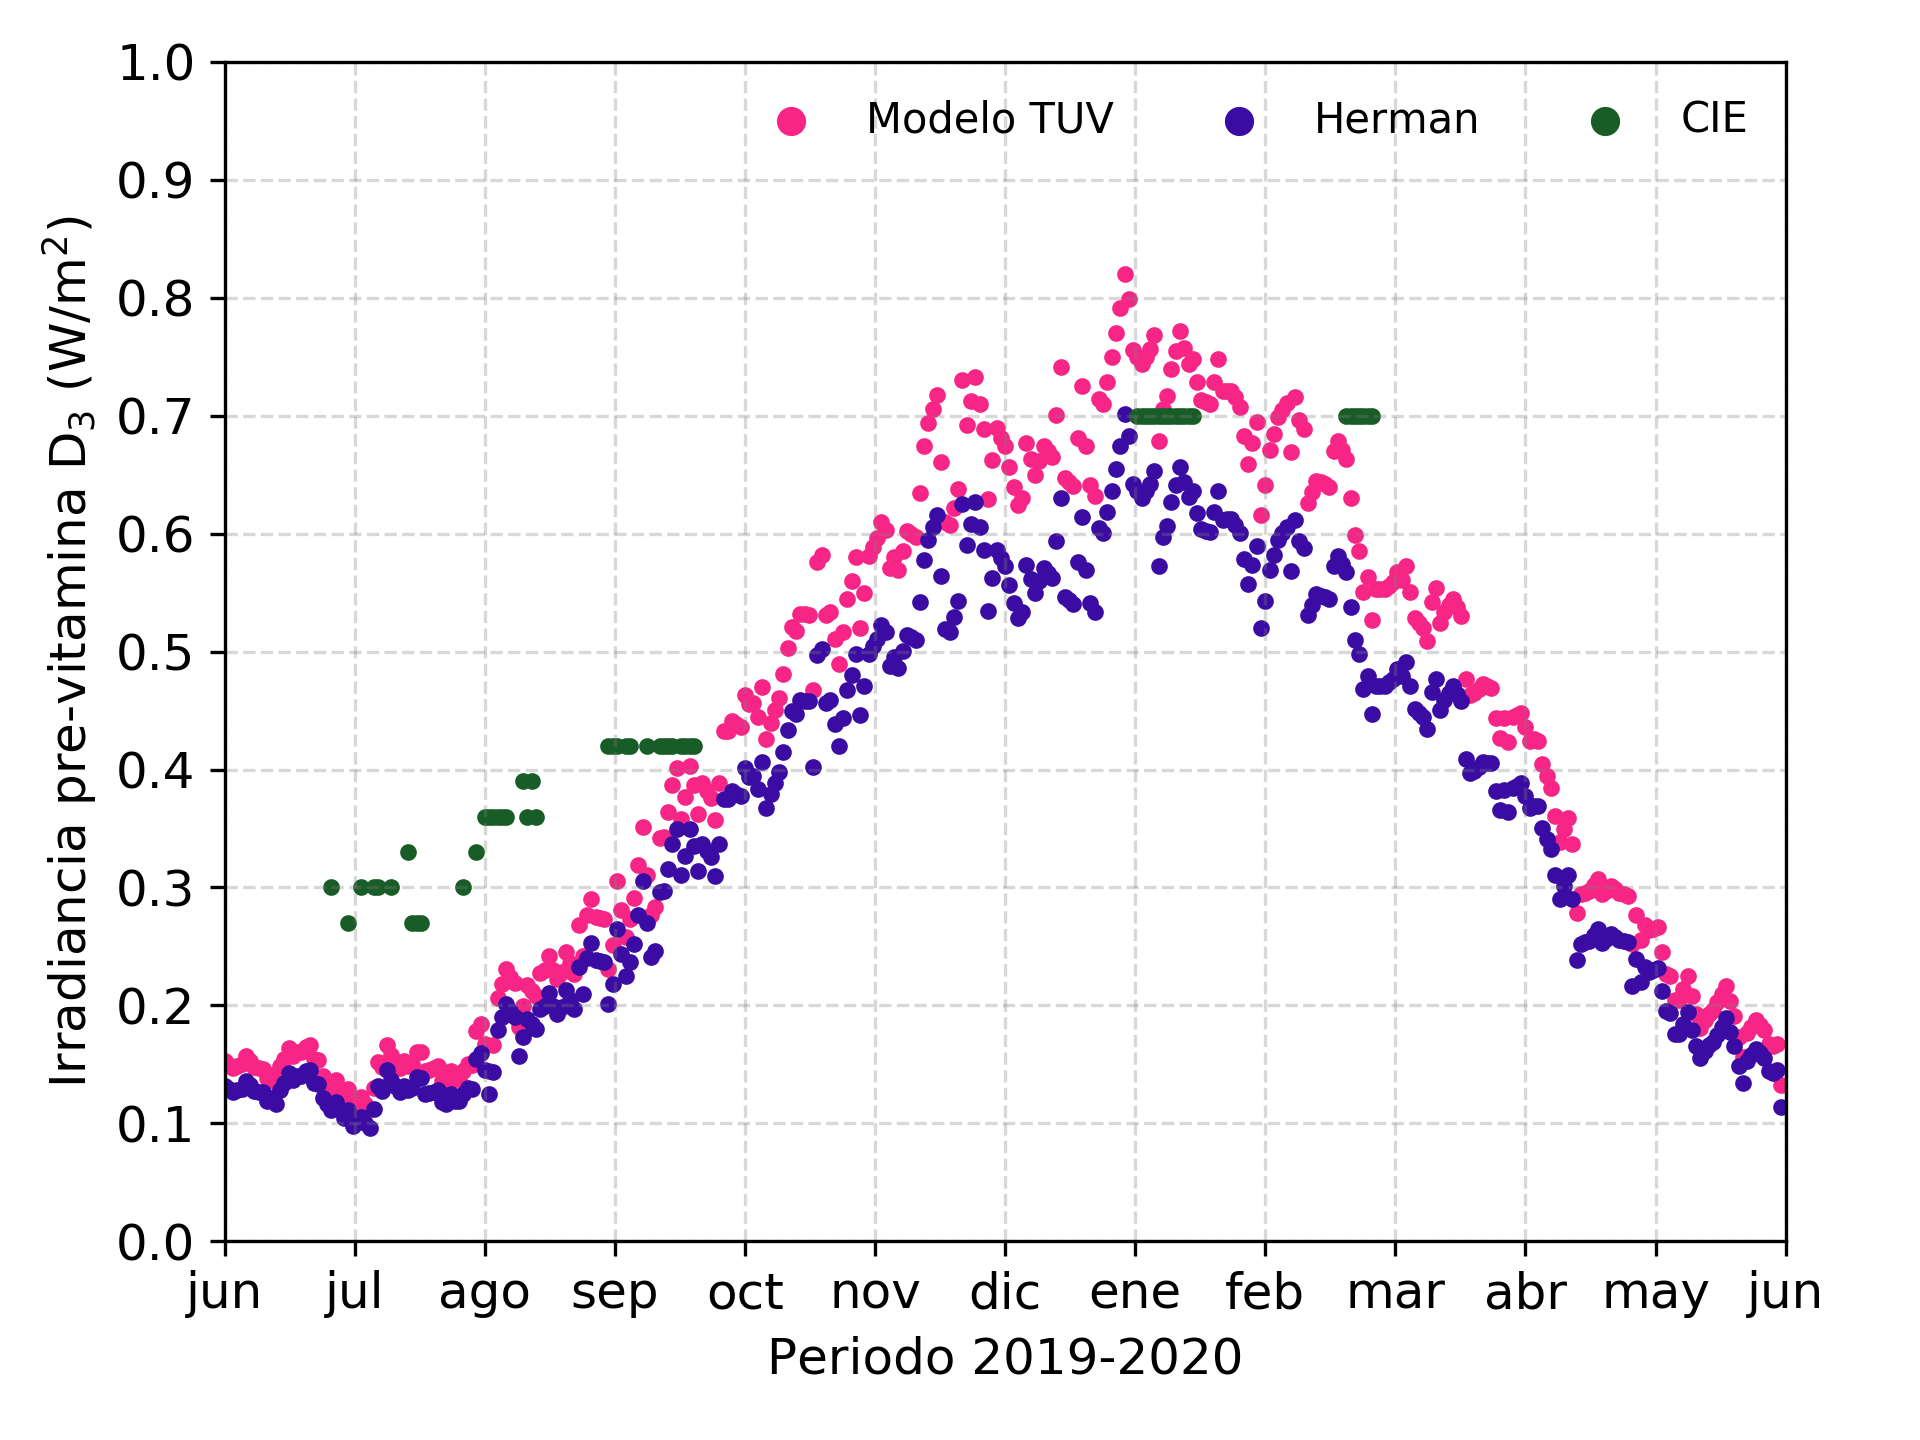
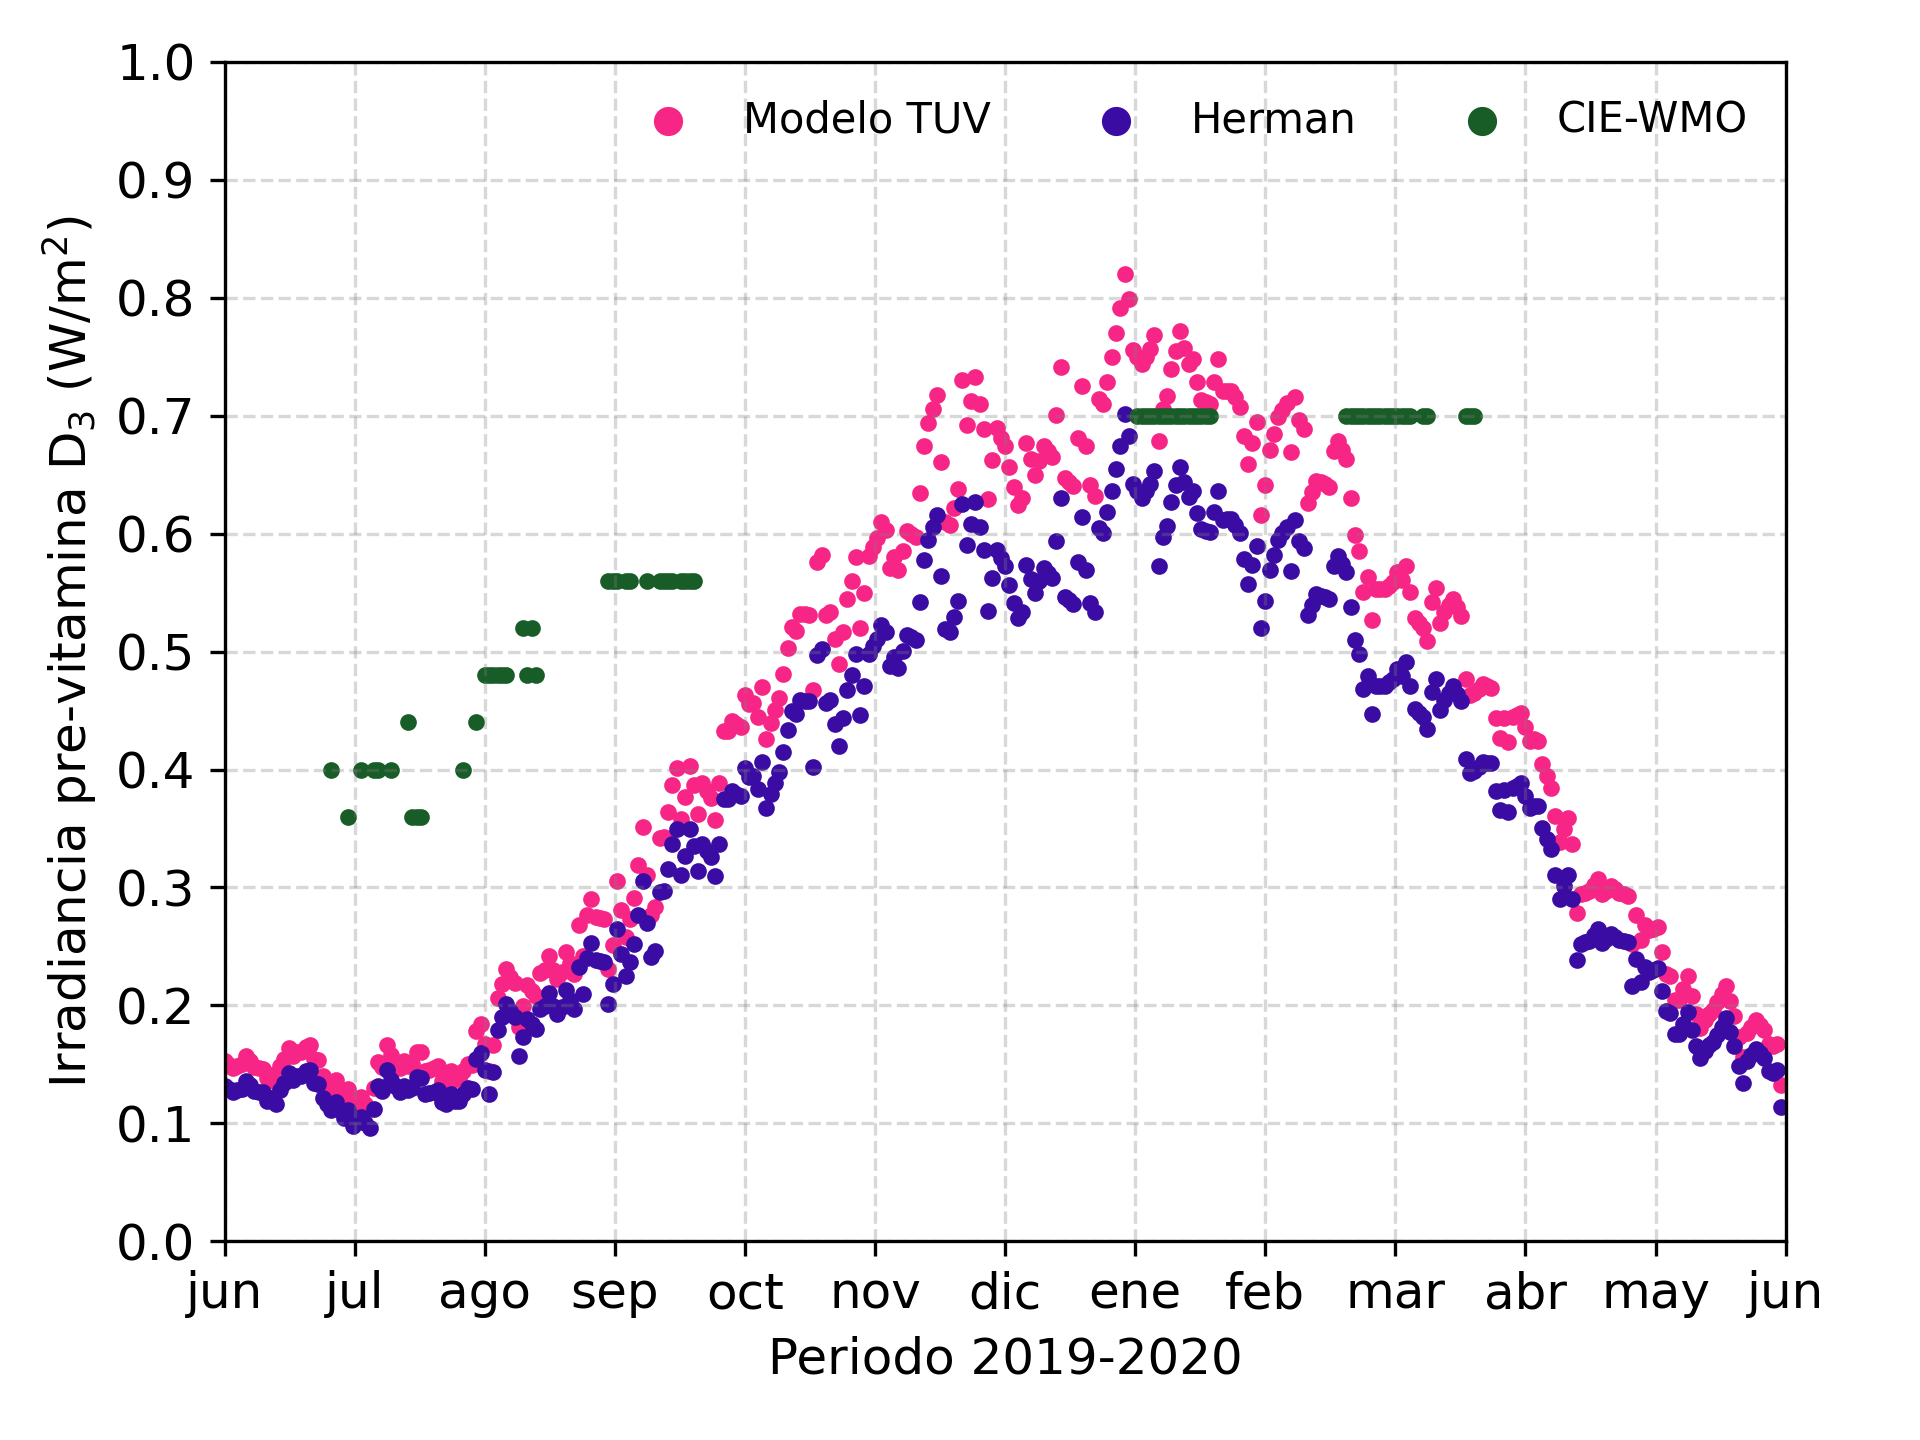
Change graphics of vitamin D

diff --git a/Scripts/pre_vitamin_d_graphics.py b/Scripts/pre_vitamin_d_graphics.py
@@ -23,7 +23,7 @@ x2 = np.arange(91)
 plt.scatter(x, data_vitamin, c="#f72585", label="Modelo TUV", marker=".")
 plt.scatter(x, data_Herman, c="#3a0ca3", label="Herman", marker=".")
 plt.scatter(x2[data_CIE_ver != 0]+20, data_CIE_ver[data_CIE_ver != 0],
-            c="#185C27", label="CIE", marker=".")
+            c="#185C27", label="CIE-WMO", marker=".")
 plt.scatter(x2[data_CIE_inv != 0]+203, data_CIE_inv[data_CIE_inv != 0],
             c="#185C27", marker=".")
 plt.ylabel("Irradiancia pre-vitamina D$_3$ (W/m$^2$)", fontsize=12)
